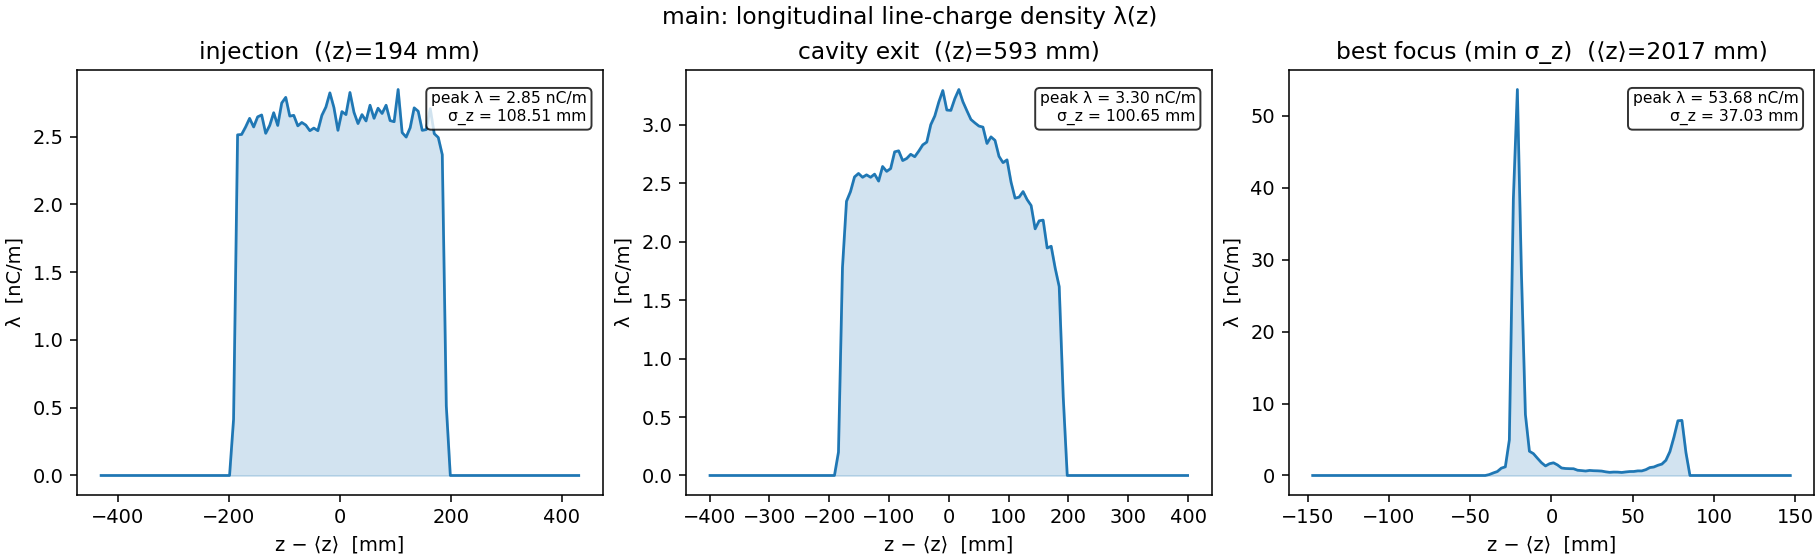
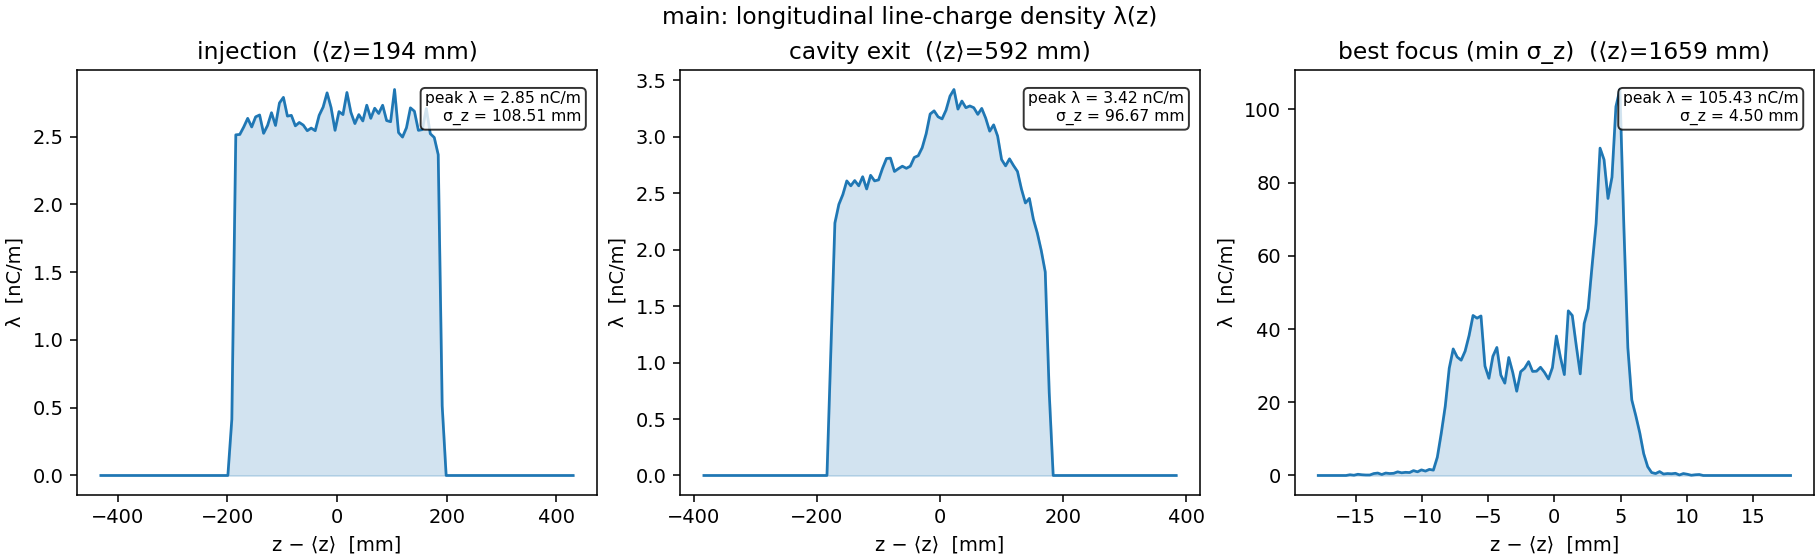
injector: relativistic EMS self-field, lenses 0B-D, exit phase-space panel
Apply the WarpX-GPT 150 kV-gun benchmark (bench/writeup) to the injector.

- Switch the injector self-field to the electromagnetostatic solver
  (warpx_magnetostatic; outer radial wall dirichlet so the A_z vector-Poisson
  is non-singular), removing the ~gamma^2 lab-frame transverse-SC over-repulsion
  (the benchmark's cause 4, which it flags grows for a longer line -- the
  injector is the longest, lowest-gamma line, ~2 m at gamma~1.3-1.4 throughout,
  unlike the low-gamma-weighted gun). Controlled A/B on the same time-release
  input: iris transmission 34% (lab-frame) -> 42% (EMS); cost ~3.7x.
- Build and wire all six LinacSim solenoids (SOL_NAMES). Lenses 0B/0C/0D
  (z=1.603/1.692/1.838 m) default to 0 A -- the faithful GUI value, inert and
  skipped -- and are config()-overridable (I_LENS0B=...) for transport studies.
- Add an "injector exit (handoff)" panel to injector_phasespace.png: the
  z~2.03 m beam linac_sec1 actually reads (re-expanded past best focus).
- Sync docs (injector/README.md, CLAUDE.md, plot_chain gamma^2 annotations).

The prebuncher operating-point re-tune for the longer time-release gun beam
(waist lands ~370 mm before the handoff; radial blow-up over the unfocused
0.225->1.6 m drift) remains an open follow-up -- the LinacSim reconciliation
backlog -- so the downstream RF-bucket capture number is not re-measured here.

diff --git a/injector/injector_sim.py b/injector/injector_sim.py
@@ -144,6 +144,15 @@ PREB2_REV_PHASE = 0.0            # [rad] faithful reversed install in this crest
 I_LENS0A = 6.0
 I_SOL0 = 40.0
 I_LENS0E = 10.0
+# Lenses 0B / 0C / 0D (z = 1.603 / 1.692 / 1.838 m) default to 0 A — the faithful LinacSim
+# GUI value, so the default operating point is unchanged (a 0-A lens is skipped below).
+# They are real magnets, now built and wired so a matching/transport study can energize
+# them via config(I_LENS0B=...). NOTE: they sit clustered with Sol 0 / 0E near 1.9 m, NOT
+# in the unfocused 0.225→1.6 m drift where the time-release beam expands — energizing them
+# tightens the late telescope, it does not add focusing to that early gap.
+I_LENS0B = 0.0
+I_LENS0C = 0.0
+I_LENS0D = 0.0
 
 # ── Collimator (the faithful injector→linac iris/pipe) ────────────────────────
 # LinacSim gpt_master.in: a scatteriris of radius 9.547 mm at z=1.922 m, followed by a
@@ -349,15 +358,36 @@ def main():
         n_azimuthal_modes=1,
         lower_bound=[0.0, 0.0],
         upper_bound=[RMAX, ZMAX],
+        # r=0 is "none" (axis). The outer radial wall at RMAX=36 mm (well outside the
+        # r≲10 mm beam) is dirichlet, NOT neumann: the electromagnetostatic solver also does
+        # a vector-Poisson solve for A, and the dominant A_z component (driven by the beam's
+        # j_z) has an all-Neumann, SINGULAR operator — the MLMG bottom solve then diverges —
+        # unless the outer wall is dirichlet, which makes A_z well-posed (same fix as the gun;
+        # at 36 mm the self-field has long decayed, so the beam dynamics are unaffected).
         lower_boundary_conditions=["none", "dirichlet"],
-        upper_boundary_conditions=["neumann", "dirichlet"],
+        upper_boundary_conditions=["dirichlet", "dirichlet"],
         lower_boundary_conditions_particles=["none", "absorbing"],
         upper_boundary_conditions_particles=["absorbing", "absorbing"],
         warpx_blocking_factor=8,
     )
+    # Electromagnetostatic (relativistic) self-field solver. In addition to the
+    # electrostatic Poisson solve (∇²φ = -ρ/ε₀, E = -∇φ), warpx_magnetostatic=True solves
+    # the Coulomb-gauge vector potential from the beam current (∇²A = -μ₀ j, B = ∇×A), so the
+    # self magnetic field is included and the relativistic magnetic-pinch term qβ×B partially
+    # cancels the radial space-charge repulsion: the net transverse self-force is qE_r/γ²
+    # rather than the pure-electrostatic qE_r. This removes the ≈γ² (≈1.66–2.0× at β≈0.63–0.7)
+    # transverse-SC over-repulsion that the plain lab-frame solver incurs — the writeup's
+    # cause-4, which it flags GROWS for a longer line, and the injector is the longest line in
+    # the chain (~2 m at γ≈1.3–1.4 throughout, unlike the low-γ-weighted gun where it was only
+    # +2%). The magnetostatic MLMG solve gets the same precision/iteration knobs as the ES solve.
     solver = picmi.ElectrostaticSolver(
         grid=grid, method="Multigrid", required_precision=REQUIRED_PRECISION,
-        maximum_iterations=MAX_ITERS, warpx_self_fields_verbosity=0,
+        maximum_iterations=MAX_ITERS,
+        warpx_magnetostatic=True,
+        warpx_magnetostatic_required_precision=REQUIRED_PRECISION,
+        warpx_magnetostatic_max_iters=MAX_ITERS,
+        warpx_self_fields_verbosity=0,
+        warpx_magnetostatic_verbosity=0,
     )
 
     # ── Applied fields ────────────────────────────────────────────────────────
@@ -367,6 +397,9 @@ def main():
     # The 1-A-normalised maps are scaled by a constant time function = the current.
     applied = []
     for path, cur in [(SOL_FILES["LENS_0A"], I_LENS0A),
+                      (SOL_FILES["LENS_0B"], I_LENS0B),
+                      (SOL_FILES["LENS_0C"], I_LENS0C),
+                      (SOL_FILES["LENS_0D"], I_LENS0D),
                       (SOL_FILES["SOL_0"],   I_SOL0),
                       (SOL_FILES["LENS_0E"], I_LENS0E)]:
         if cur != 0.0:

diff --git a/pipeline/plot_chain.py b/pipeline/plot_chain.py
@@ -34,11 +34,13 @@ PHYSICS / UNITS NOTES (reviewer-flagged):
     never the post-scrape first-dump charge. Absolute charge resets at each handoff
     (gun/injector downsample-reweight), so panel (5) shows WITHIN-stage transmission and the
     waterfall stitches the true end-to-end chain via the recorded denominators.
-  - Lab-frame ES self-field overestimates transverse space charge by ~γ² (≈1.66× at β≈0.7);
-    this applies to the **injector/linac** stages (still lab-frame ES, and SC-dominant), whose
-    σ_x and capture numbers are therefore conservative (pessimistic) — noted on the panels. The
-    GUN is the exception: it uses the electromagnetostatic solver (self-B pinch ⇒ net qE_r/γ²),
-    so it carries no γ² overestimate.
+  - Lab-frame ES self-field overestimates transverse space charge by ~γ²; the GUN and INJECTOR
+    now use the electromagnetostatic solver (self-B pinch ⇒ net qE_r/γ²), so they carry no γ²
+    overestimate. Only **linac_sec1** is still lab-frame ES — but at its ~25 MeV the beam is
+    stiff and space charge is small, so the residual γ² effect there is minor (not the
+    SC-dominant low-energy regime the injector was). NOTE: these cross-stage figures regenerate
+    from a full-chain run; after the injector solver switch they should be re-run (pending the
+    time-release operating-point re-tune — see injector/README.md).
 """
 
 import os
@@ -261,7 +263,7 @@ def render_chain_evolution(tables):
                       textcoords="axes fraction", fontsize=7, color="0.3",
                       arrowprops=dict(arrowstyle="->", color="0.5", lw=0.8))
     a_sx.set_ylabel("σ_x  [mm]"); a_sx.set_title("Transverse size (per-plane RMS)")
-    a_sx.annotate("σ_x conservative:\nES omits 1/γ² pinch (~γ²≈1.7×)",
+    a_sx.annotate("gun+injector: EMS (γ² pinch in);\nlinac_sec1 ES but SC small @25 MeV",
                   xy=(0.50, 0.92), xycoords="axes fraction", fontsize=7, color="0.3")
     a_sz.set_yscale("log"); a_sz.set_ylabel("σ_z  [mm]")
     a_sz.set_title("Bunch length (linac_rest excluded: only 2 Impact-T dumps)")
@@ -313,9 +315,9 @@ def render_emittance_budget(tables):
         "emittance after the r-importance resample builds a uniform DISC (⟨x²⟩=R²/4), so "
         "ε_n,x drops ×√(3/4)≈0.87 (~2.3→~2.0 mm·mrad) — a geometry correction (the disc is "
         "more physical), NOT physical growth. (2) the injector ε_n growth is space-charge + "
-        "solenoid-aberration dominated over the 2 m low-energy drift; the γ²≈1.7× ES "
-        "transverse-SC overestimate makes it an UPPER bound (real growth is somewhat less — "
-        "opposite sense to the capture lower bound). (3) the injector-exit bar is the "
+        "solenoid-aberration dominated over the 2 m low-energy drift, now with the relativistic "
+        "EMS self-field (the 1/γ² magnetic pinch is included, so it is no longer a γ²-inflated "
+        "upper bound). (3) the injector-exit bar is the "
         "UN-collimated 2.03 m handoff beam (no iris mask); the iris-survivor beam "
         "linac_sec1 actually receives is ~13% lower (≈326 vs ≈375 mm·mrad).")
     ax.annotate(textwrap.fill(footnote, width=150),
@@ -395,7 +397,7 @@ def render_transmission_waterfall(tables, linac_inj):
         "Starts at gun exit (physical ~1 nC renorm); cathode dump weight (~82 nC, "
         "pre-renorm, not physical) excluded. 'injector exit' is the recorded 2.03 m "
         "handoff charge (q_injected_C; dump fallback). "
-        "Capture vs TRUE injected; γ²≈1.7× ES self-field overestimate ⇒ a conservative LOWER bound.")
+        "Capture vs TRUE injected (injector now relativistic EMS; linac_sec1 SC small at 25 MeV).")
     ax.annotate(textwrap.fill(footnote, width=165),
                 xy=(0.0, -0.13), xycoords="axes fraction", va="top",
                 fontsize=7, color="0.3")

diff --git a/injector/build_injector_field.py b/injector/build_injector_field.py
@@ -70,18 +70,21 @@ OUT_FILE_1 = os.path.join(OUT_DIR, "preb1_EB.h5")   # forward field, gap at Z_GA
 OUT_FILE_2 = os.path.join(OUT_DIR, "preb2_EB.h5")   # forward field, gap at Z_GAP_CENTER_2 (+π at run)
 
 # ── Solenoid lenses (static B-only focusing maps; per-Ampere normalised) ───────
-# Three energized LinacSim lenses (GUI defaults; 0B/0C/0D are 0 A, Sol 1A-C are
-# downstream of Section 1 — all omitted). Each is a separate single-mesh openPMD
-# file (the grids differ: LENS_0A is nr=189/nz=16, the others nr=16/nz~601), placed
-# in the lab frame via grid_global_offset. Imported by injector_sim.py.
-SOL_GDF = {"LENS_0A": "fieldmaps/LENS_0A.gdf",
-           "SOL_0":   "fieldmaps/SOL_0.gdf",
-           "LENS_0E": "fieldmaps/LENS_0E.gdf"}
-SOL_FILES = {"LENS_0A": os.path.join(OUT_DIR, "lens0a.h5"),
-             "SOL_0":   os.path.join(OUT_DIR, "sol0.h5"),
-             "LENS_0E": os.path.join(OUT_DIR, "lens0e.h5")}
+# The full LinacSim injector solenoid set (in z-order). LENS_0A / SOL_0 / LENS_0E carry
+# the GUI default currents (6 / 40 / 10 A); LENS_0B / 0C / 0D default to 0 A in LinacSim
+# (so they are inert at the faithful operating point) but are real magnets at 1.603 /
+# 1.692 / 1.838 m — built here and config()-overridable in injector_sim.py so they can be
+# energized for matching/transport studies (the 0.225→1.6 m drift is otherwise unfocused).
+# Sol 1A-C are downstream of the 2.03 m handoff (Section 1) and remain omitted. Each is a
+# separate single-mesh openPMD file (the grids differ: LENS_0A is nr=189/nz=16, the others
+# nr=16/nz~601), placed in the lab frame via grid_global_offset. Imported by injector_sim.py.
+SOL_NAMES = ("LENS_0A", "LENS_0B", "LENS_0C", "LENS_0D", "SOL_0", "LENS_0E")
+SOL_GDF = {n: f"fieldmaps/{n}.gdf" for n in SOL_NAMES}
+SOL_FILES = {n: os.path.join(OUT_DIR, n.lower().replace("_", "") + ".h5")
+             for n in SOL_NAMES}
 # GUI lab-z of each lens (LinacSim gpt_master.in positions).
-SOL_GUI_Z = {"LENS_0A": 0.225, "SOL_0": 1.897, "LENS_0E": 1.914}
+SOL_GUI_Z = {"LENS_0A": 0.225, "LENS_0B": 1.603, "LENS_0C": 1.692,
+             "LENS_0D": 1.838, "SOL_0": 1.897, "LENS_0E": 1.914}
 # Offset is ALWAYS derived programmatically (offset = GUI_z − Z[argmax|Bz|]), per map,
 # from the LOADED peak — NOT hard-coded. This self-corrects against stale plan literals
 # (the plan table's SOL_0 native peak 0.8209 m / offset +1.0761 m is stale; the actual
@@ -288,7 +291,7 @@ def build_solenoids():
     reads the WRITTEN placement, not an input recompute, so it cannot self-confirm a wrong
     grid_global_offset.
     """
-    for name in ("LENS_0A", "SOL_0", "LENS_0E"):
+    for name in SOL_NAMES:
         d = easygdf.load(SOL_GDF[name])
         col = {b["name"]: np.asarray(b["value"]) for b in d["blocks"]}
         R, Z, Br, Bz = col["R"], col["Z"], col["Br"], col["Bz"]

diff --git a/injector/plot_injector.py b/injector/plot_injector.py
@@ -22,7 +22,8 @@ diags/<case> input dir and the figure titles, not the filename) so a new run
 overwrites the same files instead of leaving orphans:
 
   * injector_line.png          — σ_z(z) (vs. drift) and peak current / mean energy
-  * injector_phasespace.png    — z–KE at injection / cavity exit / best focus
+  * injector_phasespace.png    — z–KE at injection / cavity exit / best focus /
+                                 injector exit (the z≈2.03 m handoff the linac reads)
   * injector_cavity.png        — the RF DRIVE: on-axis Ez(z) of the scaled 1-J map(s)
                                  in the lab frame, plus the cos/sin RF waveform vs time
   * injector_bunch_profile.png — the real longitudinal line-charge density λ(z)
@@ -68,7 +69,8 @@ def _retry_io(fn, *args, tries=6, base=0.25, **kwargs):
 # RF drive constants (F_RF, Q_L, V1J_KEV, gap centres) come from the single source of
 # truth in the build module so this figure's re-derived scale/phase cannot drift from
 # the actual run.
-from .build_injector_field import V1J_KEV, F_RF, Q_L_1, Z_GAP_CENTER_1, Z_GAP_CENTER_2
+from .build_injector_field import (
+    V1J_KEV, F_RF, Q_L_1, Z_GAP_CENTER_1, Z_GAP_CENTER_2, Z_HANDOFF)
 
 c = 299792458.0
 MC2 = 0.51099895e3                # electron rest energy [keV]
@@ -377,7 +379,18 @@ def per_case_figure(name, rec, base):
 
     snaps, its = rec["snaps"], rec["it"]
     picks, titles = snapshot_picks(rec, base)
-    fig, axs = plt.subplots(1, 3, figsize=(13, 4.0), constrained_layout=True)
+    # Append the injector EXIT / handoff snapshot: the dump nearest the z≈Z_HANDOFF
+    # (2.03 m) plane — the SAME selection the linac stage uses to read its input beam
+    # (linac_sec1 picks the snapshot nearest the handoff). The bunch re-expands past
+    # best focus, so the phase space the downstream stage actually inherits is a
+    # distinct, later state worth showing alongside the min-σ_z point. Skip if the
+    # exit dump duplicates a pick already shown (e.g. best focus IS the last dump).
+    it_exit = its[int(np.argmin(np.abs(rec["zmean"] - Z_HANDOFF)))]
+    if it_exit not in picks:
+        picks = picks + [it_exit]
+        titles = titles + ["injector exit (handoff)"]
+    fig, axs = plt.subplots(1, len(picks), figsize=(4.3 * len(picks), 4.0),
+                            constrained_layout=True)
     for ax, it, ti in zip(axs, picks, titles):
         z, ke, w = snaps[it]
         ax.scatter((z - z.mean()) * 1e3, ke - ke.mean(), s=2, alpha=0.15, color="C0")

diff --git a/injector/README.md b/injector/README.md
@@ -126,16 +126,28 @@ facility carries this note.
 
 ## Solenoid lenses (the transverse focusing / radial-scrape fix)
 
-Three energized LinacSim lenses (GUI defaults; 0B/0C/0D are 0 A and omitted). Each is a
-separate per-Ampere B-only openPMD map (the grids differ — LENS_0A is nr=189/nz=16, the
-others nr=16/nz~601 — so they cannot be combined), placed in the lab frame via
-`grid_global_offset`. The 1-A maps scale linearly with current.
+All six LinacSim injector solenoids are now built and wired (in z-order). LENS_0A / SOL_0 /
+LENS_0E carry the GUI default currents (6 / 40 / 10 A); **LENS_0B / 0C / 0D default to 0 A**
+— the faithful LinacSim GUI value, so they are inert at the default operating point (a 0-A
+lens is skipped) — but are real magnets, built and `config()`-overridable (`I_LENS0B=…`) for
+matching/transport studies. Sol 1A-C sit downstream of the 2.03 m handoff (Section 1) and
+remain omitted. Each lens is a separate per-Ampere B-only openPMD map (the grids differ —
+LENS_0A is nr=189/nz=16, the others nr=16/nz~601 — so they cannot be combined), placed in the
+lab frame via `grid_global_offset`. The 1-A maps scale linearly with current.
 
-| Map | Current | GUI / lab-z peak | native peak z | programmatic offset |
-|-----|---------|------------------|---------------|---------------------|
-| LENS_0A | 6 A | 0.225 m | 0.2333 m | −0.0083 m |
-| SOL_0   | 40 A | 1.897 m | 0.8129 m | +1.0841 m |
-| LENS_0E | 10 A | 1.914 m | 1.9147 m | −0.0007 m |
+| Map | Current | GUI / lab-z peak | native peak z | programmatic offset | peak \|Bz\| |
+|-----|---------|------------------|---------------|---------------------|-------------|
+| LENS_0A | 6 A | 0.225 m | 0.2333 m | −0.0083 m | 4.03 mT/A |
+| LENS_0B | 0 A (default) | 1.603 m | 1.6107 m | +0.7923 m | 0.40 mT/A |
+| LENS_0C | 0 A (default) | 1.692 m | 1.7013 m | +0.7907 m | 0.32 mT/A |
+| LENS_0D | 0 A (default) | 1.838 m | 1.8240 m | +0.8140 m | 0.34 mT/A |
+| SOL_0   | 40 A | 1.897 m | 0.8129 m | +1.0841 m | 0.15 mT/A |
+| LENS_0E | 10 A | 1.914 m | 1.9147 m | −0.0007 m | 2.21 mT/A |
+
+> **Note (the 0.225→1.6 m gap):** LENS_0B/0C/0D cluster near Sol 0 / 0E around 1.9 m — they
+> are **not** in the long unfocused 0.225→1.6 m drift where the time-release beam radially
+> expands. Energizing them tightens the late matching telescope (and can help squeeze the
+> iris); it does **not** add focusing to that early gap, which is unfocused in LinacSim too.
 
 - **Offsets are derived programmatically** per map: `offset = GUI_z − Z[argmax|Bz|]`, landing
   each peak dead-on at its GUI lab-z. This self-corrects against stale plan literals (the plan
@@ -204,17 +216,47 @@ when the envelope happens to be monotone.
   coupled *through* the self-field, so the ~1 mm bunch is set with SC on; the faithful default is
   `True`.
 
+## Self-field solver (relativistic electromagnetostatic)
+
+The beam self-field uses WarpX's **electromagnetostatic** solver (`warpx_magnetostatic=True`), not
+the plain lab-frame electrostatic Poisson solve. In addition to `∇²φ = -ρ/ε₀` it solves the
+Coulomb-gauge vector potential from the beam current (`∇²A = -μ₀ j`, `B = ∇×A`), so the self
+magnetic field is included and the relativistic magnetic-pinch term `qβ×B` partially cancels the
+radial space-charge repulsion: the net transverse self-force is `qE_r/γ²` rather than the
+pure-electrostatic `qE_r`. This removes the ≈γ² (≈1.66–2.0× at β≈0.63–0.7) transverse-SC
+over-repulsion the lab-frame solver incurs — the WarpX–GPT 150 kV-gun benchmark's *cause 4*, which
+that writeup flags **grows for a longer line**, and the injector is the longest line in the chain
+(~2 m at γ≈1.3–1.4 *throughout*, unlike the low-γ-weighted gun where it was only +2%). Matches the
+gun's solver. Measured A/B on the same time-release input: iris transmission **34% (lab-frame) →
+42% (EMS)**; cost ≈3.7× (the extra A_z vector-Poisson over the long-thin box, ~78 → ~287 s).
+
+> **Gotcha (same as the gun):** the outer radial wall BC is `dirichlet`, not `neumann`. The
+> magnetostatic vector-Poisson's dominant A_z component (driven by `j_z`) has an all-Neumann,
+> *singular* operator — the MLMG bottom solve then diverges — unless the outer wall is grounded.
+> At RMAX=36 mm (well outside the beam) the self-field has decayed, so the beam dynamics are
+> unaffected; this only makes A_z well-posed.
+
 ## Capture / handoff result (the headline, with caveats)
 
 At the faithful currents (6/40/10 A) the three lenses focus the beam through the injector:
 Lens 0A (z ≈ 0.225 m) sets the early envelope, and the Sol 0 / Lens 0E matching telescope at
 z ≈ 1.9 m — just upstream of the 1.922 m iris — squeezes it through the 9.547 mm aperture.
-**~32% of the handoff charge passes the iris** (≈0.24 / 0.75 nC, via the multi-plane scrape at
-the real 1.922 m iris plane — see *The 9.547 mm collimator*), and the downstream linac captures
-**~7% of the true injected charge** into the RF bucket (⟨KE⟩ ≈ 25 MeV, σ_KE ≈ 8 MeV, max
-~32 MeV). The two prebunchers net-accelerate the beam **146 → ~220 keV** at the handoff while
-velocity-bunching it. This is **faithful machine behavior** — real lenses at real z, real iris,
-real handoff — and a large improvement over the old mislocated-solenoid hack.
+On the time-release gun beam with the relativistic EMS self-field (see *Self-field solver*),
+**~42% of the handoff charge passes the iris** (0.262 / 0.620 nC, via the multi-plane scrape at
+the real 1.922 m iris plane — see *The 9.547 mm collimator*). This is a controlled A/B above the
+**34%** the old lab-frame electrostatic solver gives on the *same* input — removing the γ²
+transverse over-repulsion focuses the beam tighter, so more clears the iris.
+
+> **⚠ Operating point under re-validation (time-release beam).** The prebuncher phases and lens
+> currents were tuned for the compact *snapshot* gun handoff. On the physical time-release beam
+> (a ~380 mm / 2 ns quasi-DC stream spanning ~155° of RF) the longitudinal waist now lands at
+> z ≈ 1.66 m — ~370 mm *upstream* of the 2.03 m handoff — so the bunch re-expands (σ_z 4.5 → 41 mm)
+> before it is handed off, and the beam radially expands to the 36 mm domain wall over the
+> unfocused 0.225→1.6 m drift (~37% loss there). So the **downstream RF-bucket capture (~7%) and
+> the "146 → ~220 keV" net-acceleration figures below predate this reconciliation and are not yet
+> re-measured** — re-tuning the phases/currents for the long beam is the open follow-up (the
+> LinacSim reconciliation backlog). The iris-transmission and solver numbers above ARE on the
+> current time-release beam.
 
 > **Fixed (physics-review):** two corrections fed these numbers. (1) An earlier version placed
 > LENS_0E ~800 mm out of position (a `grid_global_offset` bug that omitted the native grid origin
@@ -228,9 +270,9 @@ real handoff — and a large improvement over the old mislocated-solenoid hack.
 > several× more than that.)
 
 Three caveats frame this number:
-1. **Conservative lower bound:** the lab-frame electrostatic self-field omits the 1/γ² magnetic
-   pinch cancellation, overestimating transverse space charge by ~γ² (≈1.66× at β≈0.7) over the
-   ~2 m drift, so the real machine focuses tighter and captures more.
+1. **Self-field solver (resolved):** the injector now uses the relativistic electromagnetostatic
+   solver (`warpx_magnetostatic`), which includes the 1/γ² magnetic-pinch cancellation — so the
+   earlier lab-frame "~γ² conservative lower bound" no longer applies. See *Self-field solver*.
 2. **Tune-sensitive:** capture responds strongly to the upstream lens currents/placement; the
    faithful 6/40/10 A currents are not tuned to a capture optimum, so the optional current scan
    is the right tool to map the achievable capture (an earlier ~7×-from-8 mm-LENS_0A figure was
@@ -264,8 +306,9 @@ writes to `injector/results/`:
 
 ## Notes / caveats
 
-- The lab-frame electrostatic self-field is non-relativistic (omits 1/γ², overestimates
-  transverse SC by ~γ²); the focusing solution is pessimistic and the capture a lower bound.
+- The self-field is the relativistic electromagnetostatic solver (includes the 1/γ² magnetic
+  pinch — see *Self-field solver*), so the earlier lab-frame "~γ² pessimistic lower bound" framing
+  no longer applies.
 - Preb-2 phasing uses the injection β (+ analytic Preb-1 kick): valid only while both cavities
   are sub-threshold (the design point); a hardened-Preb-1 scan needs a two-pass run.
 - The 9.547 mm collimation is a post-hoc **multi-plane id scrape** (the in-run scrape isn't

diff --git a/.claude/CLAUDE.md b/.claude/CLAUDE.md
@@ -18,7 +18,14 @@ The `injector` stage is the full LinacSim injector subsection in one self-consis
 space-charge run — Lens 0A → Prebuncher 1 → Prebuncher 2 (reversed) → Sol 0 / Lens 0E —
 handing a focused, velocity-bunched beam through the 9.547 mm collimator to `linac_sec1`
 at the true linac entrance z ≈ 2.03 m. (It replaced the earlier single-cavity `prebuncher/`
-stage.)
+stage.) Its self-field is the **electromagnetostatic** solver (`warpx_magnetostatic`, matching
+the gun — outer radial wall `dirichlet` for A_z well-posedness), so the ~γ² lab-frame
+transverse-SC over-repulsion (the WarpX–GPT gun benchmark's cause 4, which grows for a longer
+line) is removed — the injector is the longest, lowest-γ line where it matters most. All six
+LinacSim solenoids are built (`SOL_NAMES`); Lens 0B/0C/0D default to 0 A (faithful, inert) and
+are `config()`-overridable (`I_LENS0B…`). **Open:** the prebuncher operating point still needs
+re-tuning for the longer time-release gun beam (waist lands ~370 mm before the handoff, radial
+blow-up over the unfocused 0.225→1.6 m drift) — the LinacSim reconciliation backlog.
 
 The `linac_rest` stage is the **rest of the straight electron line to CHESS** — Cornell linac
 sections 2–8 (CEA 2/3/4/5 + CU 3/4/5), seven S-band traveling-wave sections chained into **one
